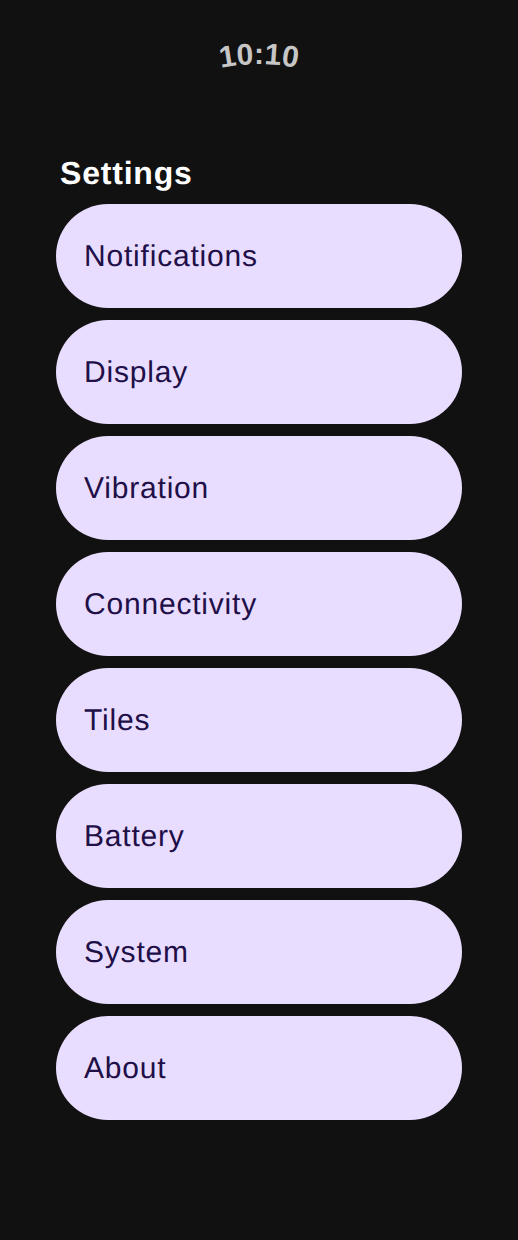
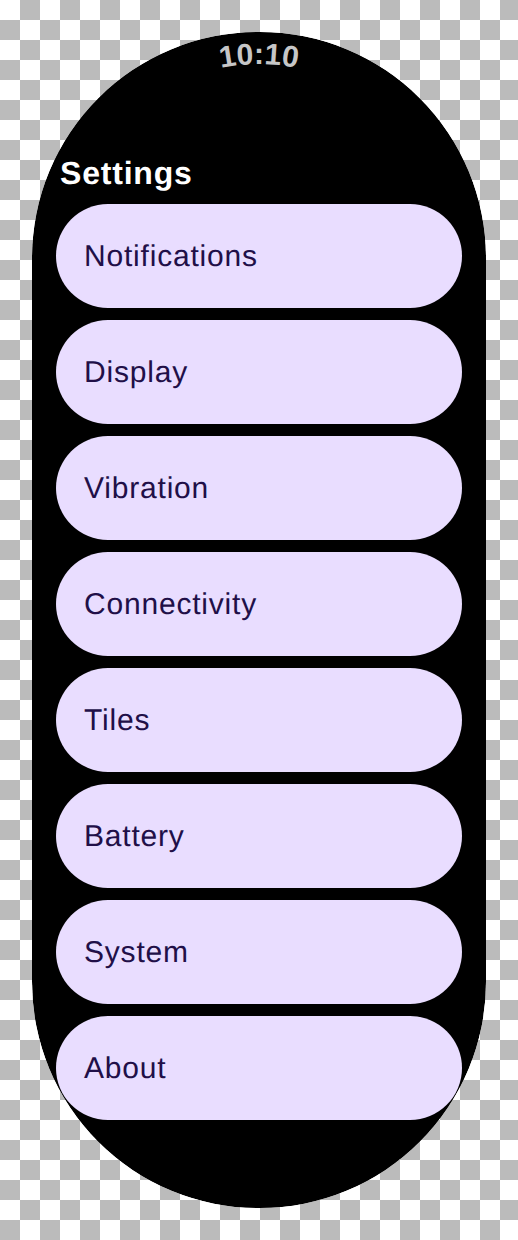
feat(figma-svg): paint a device screen background for device previews
A round/capsule Wear export clipped its content to the device mask but painted
nothing behind it, so between rows and behind the light-on-dark chrome the SVG
was transparent — the "10:10" TimeText and "Activity" header vanished on a
light canvas (Figma), and the screen read as floating cards, not a watch face.

Add an opt-in device background: FigmaSvgModel.from(deviceBackground=…) paints
that colour in the device-mask shape (capsule rect / round circle) behind the
whole tree, so the face is solid and legible while the corners outside the mask
stay transparent. Gated to device previews — it only lands when a device mask
is present AND a colour was passed, so component previews (no mask, no colour)
stay background-free and unchanged. The Wear capsule extraction opts in with
black; a unit test pins the gating (mask + opt-in ⇒ set; mask-only ⇒ null;
no-mask ⇒ null).

Changed region(s): [[0.0, 0.0, 1.0, 1.0]]

diff --git a/data/layoutinspector/core/src/main/kotlin/ee/schimke/composeai/data/layoutinspector/FigmaSvgModel.kt b/data/layoutinspector/core/src/main/kotlin/ee/schimke/composeai/data/layoutinspector/FigmaSvgModel.kt
@@ -247,6 +247,16 @@ data class FigmaSvgModel(
    * render (see [FigmaSvgCapsuleClip]). Mutually exclusive with [roundClip].
    */
   val capsuleClip: FigmaSvgCapsuleClip? = null,
+  /**
+   * The device screen background painted behind the whole tree, clipped to the device mask
+   * ([roundClip]/[capsuleClip]) — the black watch face a Wear **device** preview sits on. Only set
+   * for a device frame that opted in (a `deviceBackground` was passed to [from]); component
+   * previews (no device mask) never carry one, so their export stays transparent behind the
+   * content. Without it a device export is transparent between rows and behind light-on-dark
+   * chrome, so the light `TimeText`/header vanish on a light canvas (Figma) — the fill gives them
+   * the dark face to read against while the corners outside the mask stay transparent.
+   */
+  val deviceBackground: FigmaSvgColor? = null,
 ) {
   val tx: Int
     get() = padding - minX
@@ -333,6 +343,7 @@ data class FigmaSvgModel(
       captureCanvasDraws: Boolean = false,
       roundClip: Boolean = false,
       capsuleClip: Boolean = false,
+      deviceBackground: String? = null,
     ): FigmaSvgModel {
       val textByNodeId =
         semantics?.let { assignTextToLayers(layout.root, it, density) } ?: emptyMap()
@@ -371,6 +382,15 @@ data class FigmaSvgModel(
         if (clip != null || capsule != null)
           Extent(frame.left, frame.top, frame.right, frame.bottom)
         else rootLayer.extent() ?: Extent(0, 0, 0, 0)
+      // A device preview (round or capsule mask) that opted in paints its screen background behind
+      // the tree, clipped to that mask — so a Wear device export reads as a solid face with light
+      // chrome legible, while the corners outside the mask stay transparent. Component previews
+      // pass
+      // no `deviceBackground` (and carry no mask), so they never get one.
+      val deviceBg =
+        if ((clip != null || capsule != null) && deviceBackground != null)
+          argbToColor(deviceBackground, names)
+        else null
       return FigmaSvgModel(
         root = rootLayer,
         minX = extent.minX,
@@ -381,6 +401,7 @@ data class FigmaSvgModel(
         rasterTargets = ctx.rasterTargets,
         roundClip = clip,
         capsuleClip = capsule,
+        deviceBackground = deviceBg,
       )
     }
 

diff --git a/data/layoutinspector/core/src/main/kotlin/ee/schimke/composeai/data/layoutinspector/FigmaLayeredSvg.kt b/data/layoutinspector/core/src/main/kotlin/ee/schimke/composeai/data/layoutinspector/FigmaLayeredSvg.kt
@@ -100,6 +100,23 @@ object FigmaLayeredSvg {
     val clipAttr = if (clip != null || capsule != null) """ clip-path="url(#deviceRound)"""" else ""
     sb.append("""<g transform="translate(${model.tx}, ${model.ty})"$clipAttr>""")
     sb.append('\n')
+    // A device preview paints its screen background (the black watch face) behind the tree, in the
+    // device-mask shape so it fills the face and the corners stay transparent — set only when a
+    // device frame opted in, so component previews stay background-free.
+    model.deviceBackground?.let { bg ->
+      val fillOpacity = opacity("fill", bg)
+      val shape =
+        when {
+          capsule != null ->
+            """<rect x="${capsule.x}" y="${capsule.y}" width="${capsule.width}" """ +
+              """height="${capsule.height}" rx="${capsule.rx}" ry="${capsule.rx}" """ +
+              """fill="${bg.hex}"$fillOpacity/>"""
+          clip != null ->
+            """<circle cx="${clip.cx}" cy="${clip.cy}" r="${clip.r}" fill="${bg.hex}"$fillOpacity/>"""
+          else -> null
+        }
+      if (shape != null) sb.append("  ").append(shape).append('\n')
+    }
     renderLayer(model.root, sb, options, familyOverrides, depth = 1)
     sb.append("</g>\n")
     sb.append("</svg>\n")

diff --git a/renderers/android/src/test/kotlin/ee/schimke/composeai/renderer/WearCapsuleStackerTest.kt b/renderers/android/src/test/kotlin/ee/schimke/composeai/renderer/WearCapsuleStackerTest.kt
@@ -114,4 +114,22 @@ class WearCapsuleStackerTest {
     assertNotNull(model.capsuleClip)
     assertNull(model.roundClip)
   }
+
+  @Test
+  fun `device background fills the capsule only for a device preview that opts in`() {
+    val stacked =
+      WearCapsuleStacker.stack(rootId = "t", width = width, parts = List(8) { part("r$it", 60) })
+    // Device preview (has a mask) + opted in ⇒ the screen background is set.
+    val withBg =
+      FigmaSvgModel.from(layout = stacked.layout, roundClip = true, deviceBackground = "#FF000000")
+    assertNotNull(withBg.deviceBackground)
+    assertEquals("#000000", withBg.deviceBackground!!.hex)
+    // Device preview but not opted in ⇒ no background (unchanged export).
+    assertNull(FigmaSvgModel.from(layout = stacked.layout, roundClip = true).deviceBackground)
+    // Component preview (no device mask) ⇒ no background even when a colour is passed.
+    assertNull(
+      FigmaSvgModel.from(layout = stacked.layout, roundClip = false, deviceBackground = "#FF000000")
+        .deviceBackground
+    )
+  }
 }

diff --git a/renderers/android/src/test/kotlin/ee/schimke/composeai/renderer/WearScrollSvgGrowthTest.kt b/renderers/android/src/test/kotlin/ee/schimke/composeai/renderer/WearScrollSvgGrowthTest.kt
@@ -501,6 +501,9 @@ class WearScrollSvgGrowthTest {
       density = 1f,
       frameImage = framePng,
       roundClip = true,
+      // These are device previews: paint the black watch face behind the tree (clipped to the
+      // capsule) so the light TimeText/header read correctly and the corners stay transparent.
+      deviceBackground = "#FF000000",
     )
     val svg = File(rootDir, "$previewId/compose-figma.svg").readText()
     File("build/wear-scroll-svg/figma-raster").mkdirs()
@@ -548,6 +551,10 @@ class WearScrollSvgGrowthTest {
     )
     assertTrue("the stacked frame pins TimeText on the rim", svg.contains("10:10"))
     assertTrue("the stacked frame keeps its header", svg.contains(">Activity</text>"))
+    assertTrue(
+      "the device preview paints the black watch face behind the capsule",
+      svg.contains("""rx="113" ry="113" fill="#000000""""),
+    )
     assertTrue("the EdgeButton is composited as a raster <image>", svg.contains("<image "))
     assertTrue(
       "the EdgeButton raster PNG must be written next to the SVG",

diff --git a/data/layoutinspector/connector/src/main/kotlin/ee/schimke/composeai/daemon/ComposeFigmaSvgDataProduct.kt b/data/layoutinspector/connector/src/main/kotlin/ee/schimke/composeai/daemon/ComposeFigmaSvgDataProduct.kt
@@ -70,6 +70,7 @@ object ComposeFigmaSvgDataProducer {
     frameImage: File? = null,
     fontResolver: FigmaFontResolver? = null,
     roundClip: Boolean = false,
+    deviceBackground: String? = null,
     fileSystem: FileSystem = SystemFileSystem,
   ) {
     val previewDir = rootDir.resolve(previewId).also { it.mkdirs() }
@@ -89,6 +90,10 @@ object ComposeFigmaSvgDataProducer {
         // mask the export to the same circle so its square full-frame background doesn't paint the
         // corners the render leaves clear.
         roundClip = roundClip,
+        // A device preview opts into painting its screen background (the black watch face) behind
+        // the
+        // tree, clipped to the device mask; component previews pass null and stay background-free.
+        deviceBackground = deviceBackground,
       )
     val fonts = fontResolver?.let { resolveFonts(model, it, fileSystem) }
     val svg =
